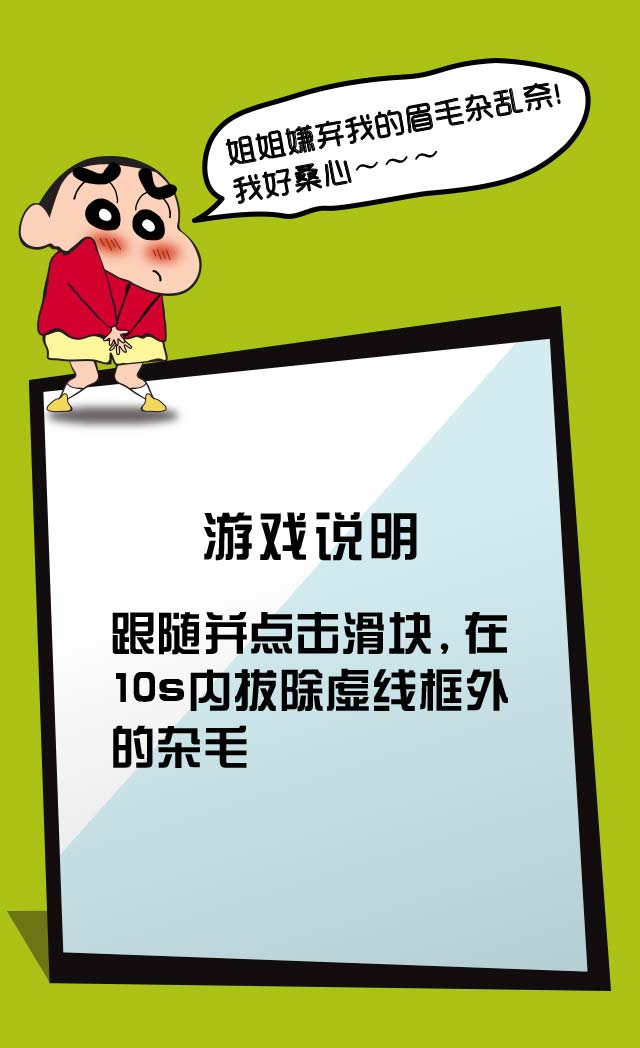
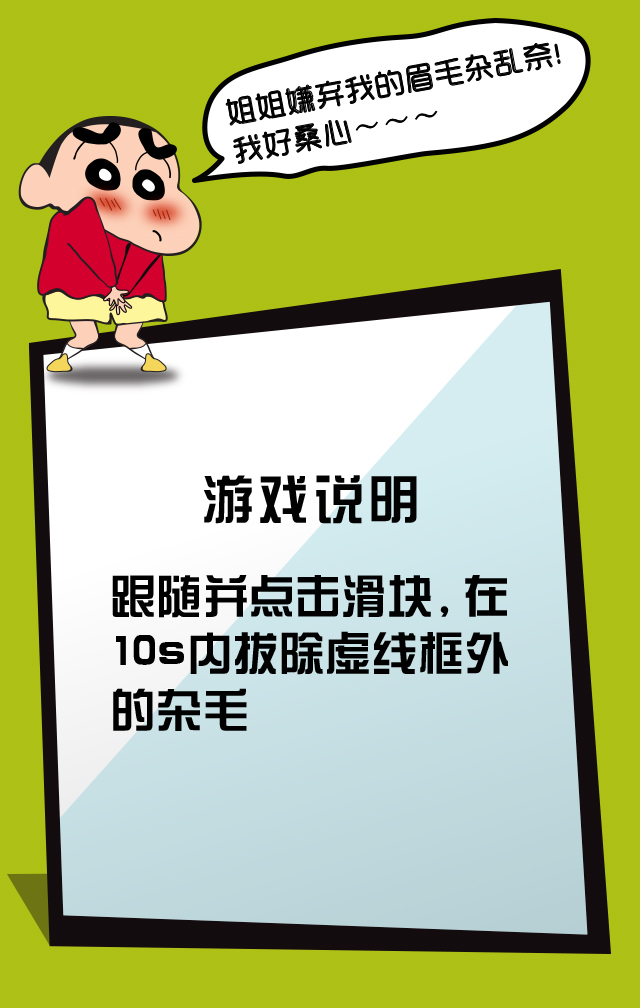
demo优化
优化了图片，修改了成功的页面显示状态
修改了在游戏页面的一些计算方法

diff --git a/css/default/labixiaoxin.css b/css/default/labixiaoxin.css
@@ -32,6 +32,8 @@ overflow-x: hidden;
 
 .role-bg .successnext{background: url(../../image/labixiaoxin/successnext.png);position: absolute;z-index: 24;left:50%;}
 .role-bg .successnext:active{background: url(../../image/labixiaoxin/successnextdown.png);}
+.role-bg .successretry{background: url(../../image/labixiaoxin/successretry.png);position: absolute;z-index: 24;left:50%;}
+.role-bg .successretry:active{background: url(../../image/labixiaoxin/successretrydown.png);}
 
 .role-bg .game-tv{background: url(../../image/labixiaoxin/tv.png);position: absolute;z-index: 24;display: none;}
 .role-bg .game-tv img{position: absolute;left:auto;top:auto;}
@@ -45,7 +47,7 @@ overflow-x: hidden;
 
 .role-bg img.#page3Bg{width: 200%;}
 
-#page3Bg
+#three{position: absolute;left:0;width: 100%;z-index: 999;}
 
 .rotate1{
 	-moz-transform:rotate(-3deg);
@@ -64,19 +66,21 @@ overflow-x: hidden;
 	.role-bg .play,.role-bg .play:active{background-size: 162px;width: 162px;height: 108px;top:360px;left:10px;}
 	.role-bg .pencle{background-size: 44px;width: 44px;height: 288px;top:170px;left:15px;}
 	.role-bg .game-des{background-size: 213px;width: 213px;height: 143px;top:255px;margin-left: -106px;}
-	.role-bg .game-des-line{height: 2px;top:30px;}
-	.role-bg .know,.role-bg .know:active{background-size: 137px;width: 137px;height: 87px;top:390px;margin-left: -78px;}
+	.role-bg .game-des-line{height: 2px;top:10px;}
+	.role-bg .know,.role-bg .know:active{background-size: 137px;width: 137px;height: 87px;top:370px;margin-left: -78px;}
 	#xiaoxin{width: 179px;margin-left: -136px;margin-top:-50px;}
 	.role-bg .clickBar{background-size: 320px;width: 320px;height: 104px;}
 	.role-bg .clickBar img{margin-top: 3px;width: 98px;}
 	.role-bg .ready{background-size: 307px;width: 307px;height: 68px;margin-left: -153px;margin-top: -34px;}
 	.role-bg .go{background-size: 305px;width: 305px;height: 111px;margin-left: -152px;margin-top: -55px;}
-	.role-bg .retry,.role-bg .retry:active{background-size:187px;width: 187px;height: 114px;margin-left: -93px;top:395px;}
-	.role-bg .successnext,.role-bg .successnext:active{background-size:180px;width: 180px;height: 124px;margin-left: -90px;top:375px;}
+	.role-bg .retry,.role-bg .retry:active{background-size:187px;width: 187px;height: 114px;margin-left: -93px;top:375px;}
+	.role-bg .successnext,.role-bg .successnext:active{background-size:263px;width: 263px;height:86px;margin-left: -131px;top:337px;}
+	.role-bg .successretry,.role-bg .successretry:active{background-size:170px;width: 170px;height:78px;margin-left: -88px;top:420px;}
 	#eyebrow{width: 310px;height: 151px;top:15px;}
 	#eyebrowj{width: 222px;height: 269px;right: 0px;top: 40px;}
-	.role-bg .game-tv{background-size: 207px;width: 207px;height:127px;top:110px;right: 10px;}
+	.role-bg .game-tv{background-size: 207px;width: 207px;height:127px;top:90px;right: 10px;}
 	.role-bg .game-tv img{width: 80px;height: 34px;right: 17px;bottom: 20px;}
+	#three{top:-145px;}
 }
 
 @media screen and (min-width:360px){
@@ -85,19 +89,21 @@ overflow-x: hidden;
 	.role-bg .play,.role-bg .play:active{background-size: 182px;width: 182px;height: 121px;top:405px;left:11px;}
 	.role-bg .pencle{background-size: 49px;width: 49px;height: 324px;top:191px;left:15px;}
 	.role-bg .game-des{background-size: 240px;width: 240px;height: 161px;top:286px;margin-left: -119px;}
-	.role-bg .game-des-line{height: 2px;top:34px;}
-	.role-bg .know,.role-bg .know:active{background-size: 154px;width: 154px;height: 98px;top:438px;margin-left: -88px;}
+	.role-bg .game-des-line{height: 2px;top:11px;}
+	.role-bg .know,.role-bg .know:active{background-size: 154px;width: 154px;height: 98px;top:416px;margin-left: -88px;}
 	#xiaoxin{width:201px;margin-left: -153px;margin-top:-56px;}
 	.role-bg .clickBar{background-size: 360px;width: 360px;height: 117px;}
 	.role-bg .clickBar img{margin-top: 3px;width: 110px;}
 	.role-bg .ready{background-size: 345px;width: 345px;height: 76px;margin-left: -172px;margin-top: -38px;}
 	.role-bg .go{background-size: 343px;width: 343px;height: 124px;margin-left: -171px;margin-top: -62px;}
-	.role-bg .retry,.role-bg .retry:active{background-size:210px;width: 210px;height: 128px;margin-left: -104px;top:445px;}
-	.role-bg .successnext,.role-bg .successnext:active{background-size:202px;width: 202px;height: 139px;margin-left: -101px;top:421px;}
+	.role-bg .retry,.role-bg .retry:active{background-size:210px;width: 210px;height: 128px;margin-left: -104px;top:421px;}
+	.role-bg .successnext,.role-bg .successnext:active{background-size:202px;width: 202px;height: 139px;margin-left: -101px;top:379px;}	
+	.role-bg .successretry,.role-bg .successretry:active{background-size:191px;width: 191px;height:87px;margin-left: -99px;top:472px;}
 	#eyebrow{width: 348px;height: 170px;top:17px;}
 	#eyebrowj{width: 250px;height: 302px;right: 0px;top: 45px;}
 	.role-bg .game-tv{background-size: 232px;width: 232px;height:142px;top:123px;right: 11px;}
 	.role-bg .game-tv img{width: 90px;height: 38px;right: 19px;bottom: 22px;}
+	#three{top:-163px;}
 }
 
 @media screen and (min-width:480px){
@@ -106,19 +112,21 @@ overflow-x: hidden;
 	.role-bg .play,.role-bg .play:active{background-size:243px;width: 243px;height: 162px;top:530px;left:10px;}
 	.role-bg .pencle{background-size: 66px;width: 66px;height: 432px;top:260px;left:18px;}
 	.role-bg .game-des{background-size: 320px;width: 320px;height: 214px;top:385px;margin-left: -160px;}
-	.role-bg .game-des-line{height: 3px;top:45px;}
-	.role-bg .know,.role-bg .know:active{background-size: 206px;width: 206px;height: 131px;top:585px;margin-left: -103px;}
+	.role-bg .game-des-line{height: 3px;top:15px;}
+	.role-bg .know,.role-bg .know:active{background-size: 206px;width: 206px;height: 131px;top:555px;margin-left: -103px;}
 	#xiaoxin{width: 269px;margin-left: -205px;margin-top: -75px;}
 	.role-bg .clickBar{background-size: 480px;width: 480px;height: 156px;}
 	.role-bg .clickBar img{margin-top: 4px;width: 146px;}
 	.role-bg .ready{background-size: 460px;width: 460px;height: 102px;margin-left: -230px;margin-top: -51px;}
 	.role-bg .go{background-size: 457px;width: 457px;height: 166px;margin-left: -228px;margin-top: -83px;}
-	.role-bg .retry,.role-bg .retry:active{background-size:281px;width: 281px;height: 171px;margin-left: -140px;top:590px;}
-	.role-bg .successnext,.role-bg .successnext:active{background-size:270px;width: 270px;height: 186px;margin-left: -135px;top:565px;}
+	.role-bg .retry,.role-bg .retry:active{background-size:281px;width: 281px;height: 171px;margin-left: -140px;top:542px;}
+	.role-bg .successnext,.role-bg .successnext:active{background-size:270px;width: 270px;height: 186px;margin-left: -177px;top:505px;}	
+	.role-bg .successretry,.role-bg .successretry:active{background-size:255px;width: 255px;height:117px;margin-left: -132px;top:630px;}
 	#eyebrow{width: 465px;height: 227px;top:22px;}
 	#eyebrowj{width: 333px;height: 404px;right: 0px;top: 60px;}
 	.role-bg .game-tv{background-size: 310px;width: 310px;height:190px;top:165px;right: 10px;}
 	.role-bg .game-tv img{width: 120px;height: 51px;}
+	#three{top:-217px;}
 }
 @media screen and (min-width:640px){
 	.role-bg .biling{background-size: 151px;width: 151px;height: 82px;top:340px;left:400px;}
@@ -126,19 +134,21 @@ overflow-x: hidden;
 	.role-bg .play,.role-bg .play:active{background-size: 324px;width: 324px;height: 216px;top:690px;left:10px;}
 	.role-bg .pencle{background-size: 88px;width: 88px;height:576px;top:340px;left:20px;}
 	.role-bg .game-des{background-size: 426px;width: 426px;height: 286px;top:510px;margin-left: -213px;}
-	.role-bg .game-des-line{height: 4px;top:60px;}
-	.role-bg .know,.role-bg .know:active{background-size: 275px;width: 275px;height: 175px;top:780px;margin-left: -137px;}
+	.role-bg .game-des-line{height: 4px;top:20px;}
+	.role-bg .know,.role-bg .know:active{background-size: 275px;width: 275px;height: 175px;top:740px;margin-left: -137px;}
 	#xiaoxin{width: 359px;margin-left: -273px;margin-top: -100px;}
 	.role-bg .clickBar{background-size: 640px;width: 640px;height: 208px;}
 	.role-bg .clickBar img{margin-top: 5px;width: 195px;}
 	.role-bg .ready{background-size: 614px;width: 614px;height: 136px;margin-left: -307px;margin-top: -68px;}
 	.role-bg .go{background-size: 610px;width: 610px;height: 222px;margin-left: -305px;margin-top: -111px;}
-	.role-bg .retry,.role-bg .retry:active{background-size:374px;width: 374px;height: 228px;margin-left: -187px;top:763px;}
-	.role-bg .successnext,.role-bg .successnext:active{background-size:361px;width: 361px;height: 248px;margin-left: -180px;top:727px;}
+	.role-bg .retry,.role-bg .retry:active{background-size:374px;width: 374px;height: 228px;margin-left: -187px;top:723px;}
+	.role-bg .successnext,.role-bg .successnext:active{background-size:527px;width: 527px;height:172px;margin-left: -263px;top:674px;}
+	.role-bg .successretry,.role-bg .successretry:active{background-size:340px;width: 340px;height:157px;margin-left: -176px;top:840px;}
 	#eyebrow{width: 621px;height: 303px;top:30px;}
 	#eyebrowj{width: 444px;height: 539px;right: 0px;top: 80px;}
 	.role-bg .game-tv{background-size: 414px;width: 414px;height:254px;top:220px;right: 10px;}
 	.role-bg .game-tv img{width: 160px;height: 69px;}
+	#three{top:-290px;}
 }
 
 

diff --git a/labixiaoxin/pagesuccess.html b/labixiaoxin/pagesuccess.html
@@ -23,6 +23,7 @@
 	<div class="role-bg">		
 		<img src="../image/labixiaoxin/success.jpg" />
 		<div id="successnext" class="successnext"></div>
+		<div id="successretry" class="successretry"></div>
 	</div>
 </div>
 <!-- /page4 -->
@@ -32,13 +33,14 @@
 <script type="text/javascript">
 $(function() {
  
-  //成功页面加载完成之后
-  $(document).on("pageinit", "#success", function() {
-    clearInterval(successT);
-    //成功后next按钮
-    $("#successnext").click(function(event) {
-      window.location.reload(true);
-    });
+  //成功后next按钮
+  $("#successnext").click(function(event) {
+    window.location.reload();
+  });
+
+  //成功后next按钮
+  $("#successretry").click(function(event) {
+    window.location.href="page3.html";
   });
 
 });

diff --git a/labixiaoxin/pageerror.html b/labixiaoxin/pageerror.html
@@ -21,10 +21,22 @@
 <div data-role="page" id="error" data-dom-cache＝"false">
 	<div class="role-bg">		
 		<img src="../image/labixiaoxin/error.jpg" />
+		<img id="three" src="../image/labixiaoxin/lineThree.png" />
 		<a href="page3.html "/><div id="retry" class="retry"></div></a>
 	</div>
 </div>
 <!-- /page5 -->
+
+<script type="text/javascript">
+	$(function() {
+		$("#three").animate({
+			"top": 0
+			},
+			1000, function() {
+			
+		});
+	})
+</script>
 
 
 </body>

diff --git a/labixiaoxin/index.html b/labixiaoxin/index.html
@@ -101,7 +101,7 @@ $(function() {
       state3();
       setTimeout(function() {
         window.location.href = "page2.html";
-      }, 2000);
+      }, 1500);
     });
   });
 
